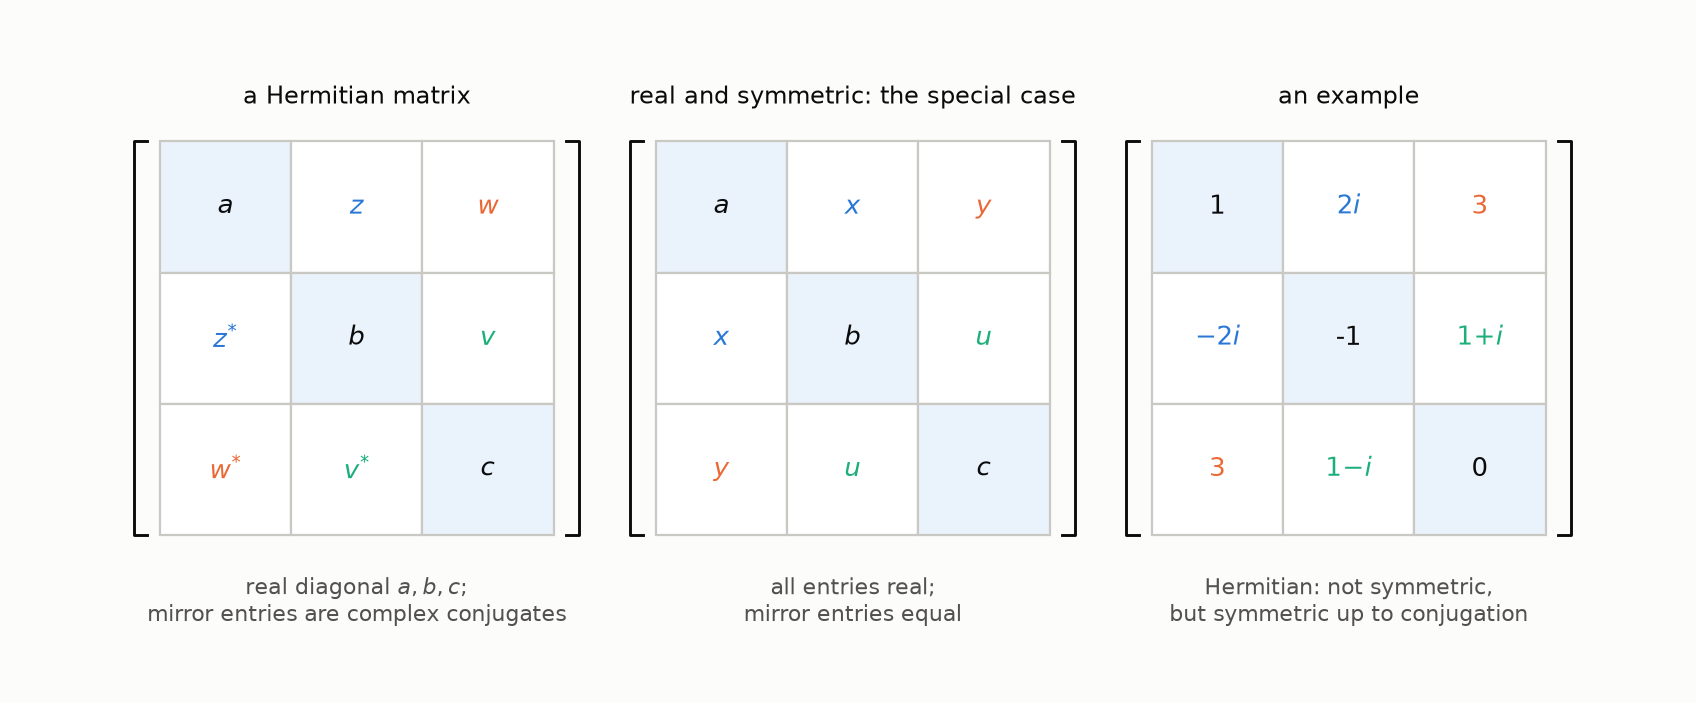
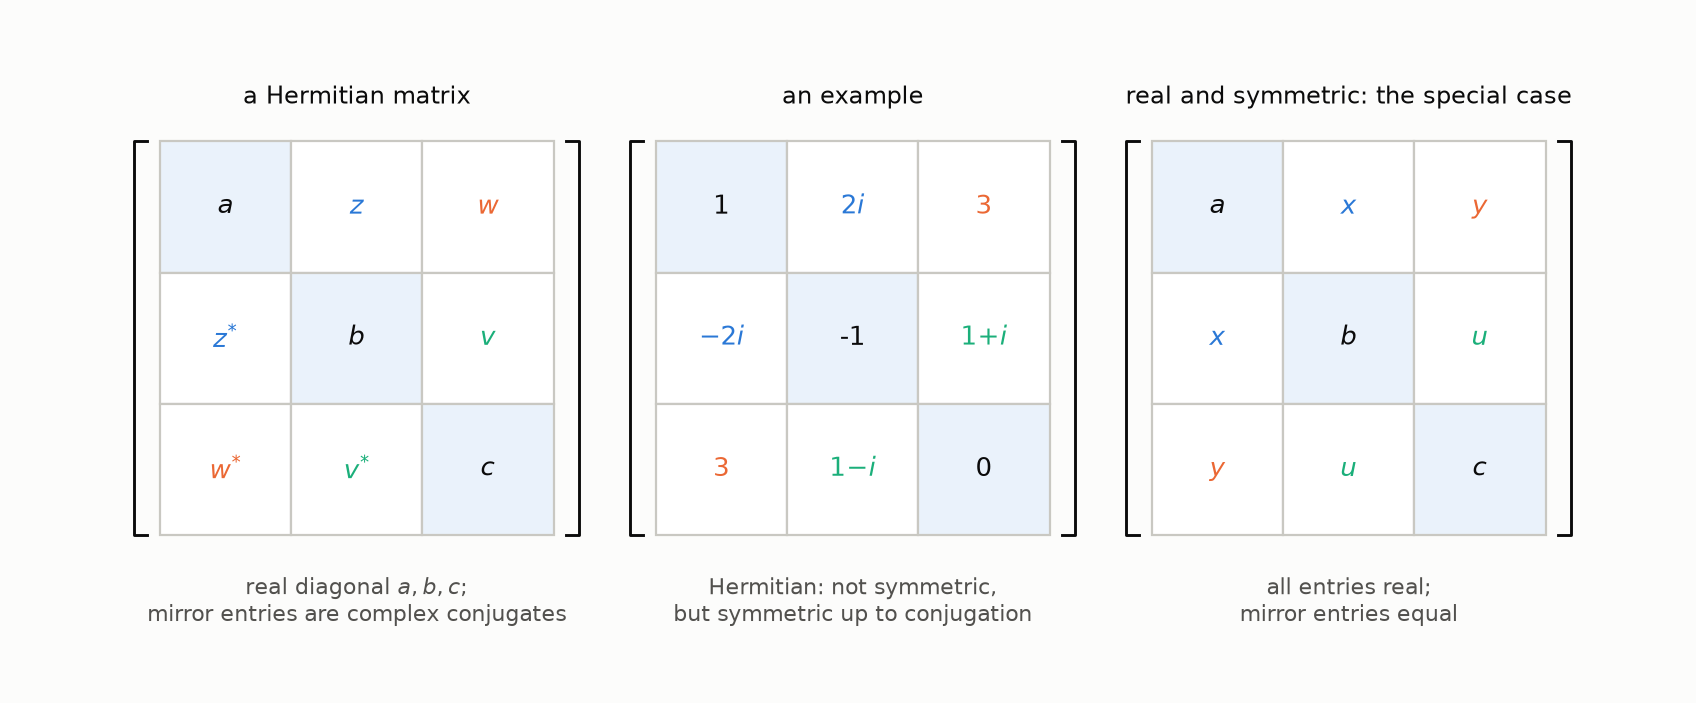
Observables Are Hermitian Operators: example matrix placed before the real symmetric special case

diff --git a/content/quantum/observables-are-hermitian-operators/index.md b/content/quantum/observables-are-hermitian-operators/index.md
@@ -244,7 +244,7 @@ every entry below the diagonal the complex conjugate of its mirror
 image above it. A real symmetric matrix is the special case with no
 imaginary parts.
 
-![A Hermitian matrix: real diagonal, mirror entries complex conjugates of each other; a real symmetric matrix as the special case; and a numerical example that is Hermitian but not symmetric](hermitian_matrix.png)
+![A Hermitian matrix: real diagonal, mirror entries complex conjugates of each other; a numerical example that is Hermitian but not symmetric; and a real symmetric matrix as the special case](hermitian_matrix.png)
 
 A worry at this point. A table of $n^2$ complex numbers could have
 been anything, and the argument has just forced it to be Hermitian;
